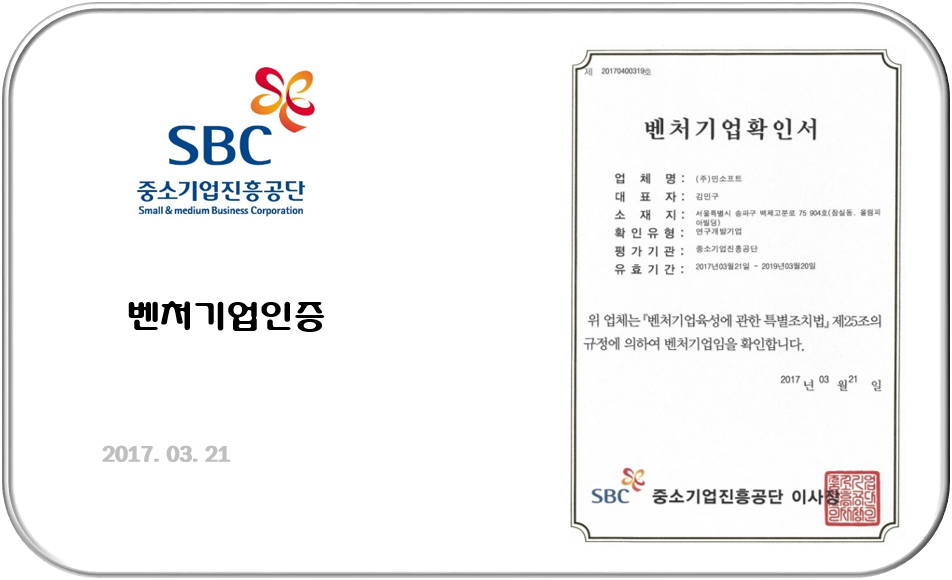
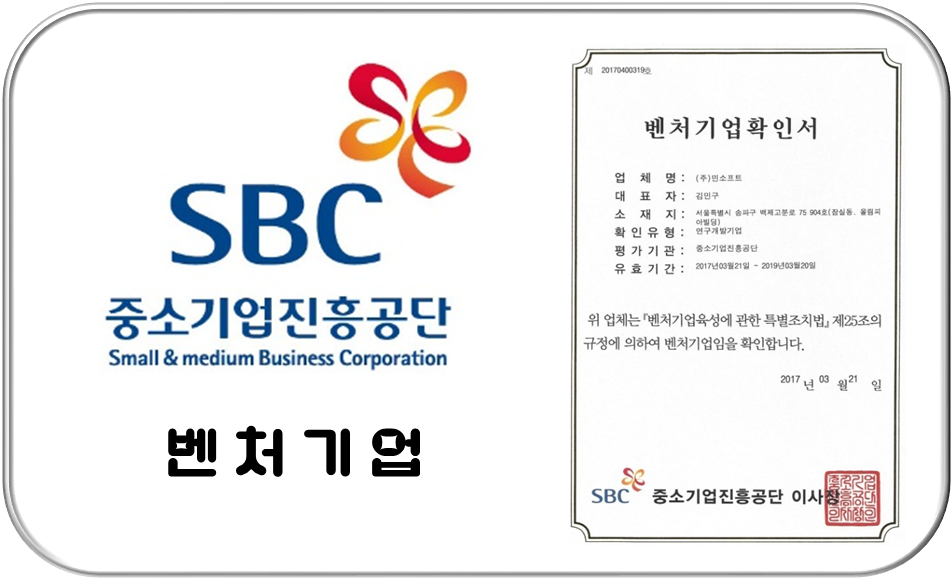
main사진 바꾸기

diff --git a/src/main/resources/templates/certification.html b/src/main/resources/templates/certification.html
@@ -316,7 +316,7 @@
 			<a href="/certification" class="btn btn-light" id="btn-main-top-buttons">기업인증</a>
 		</div>
 
-		<h5 class="h5text" style="margin-bottom: 100px;">기업인증</h5>
+		
 		<div class="album py-5 bg-body-tertiary">
 			<div class="container">
 
